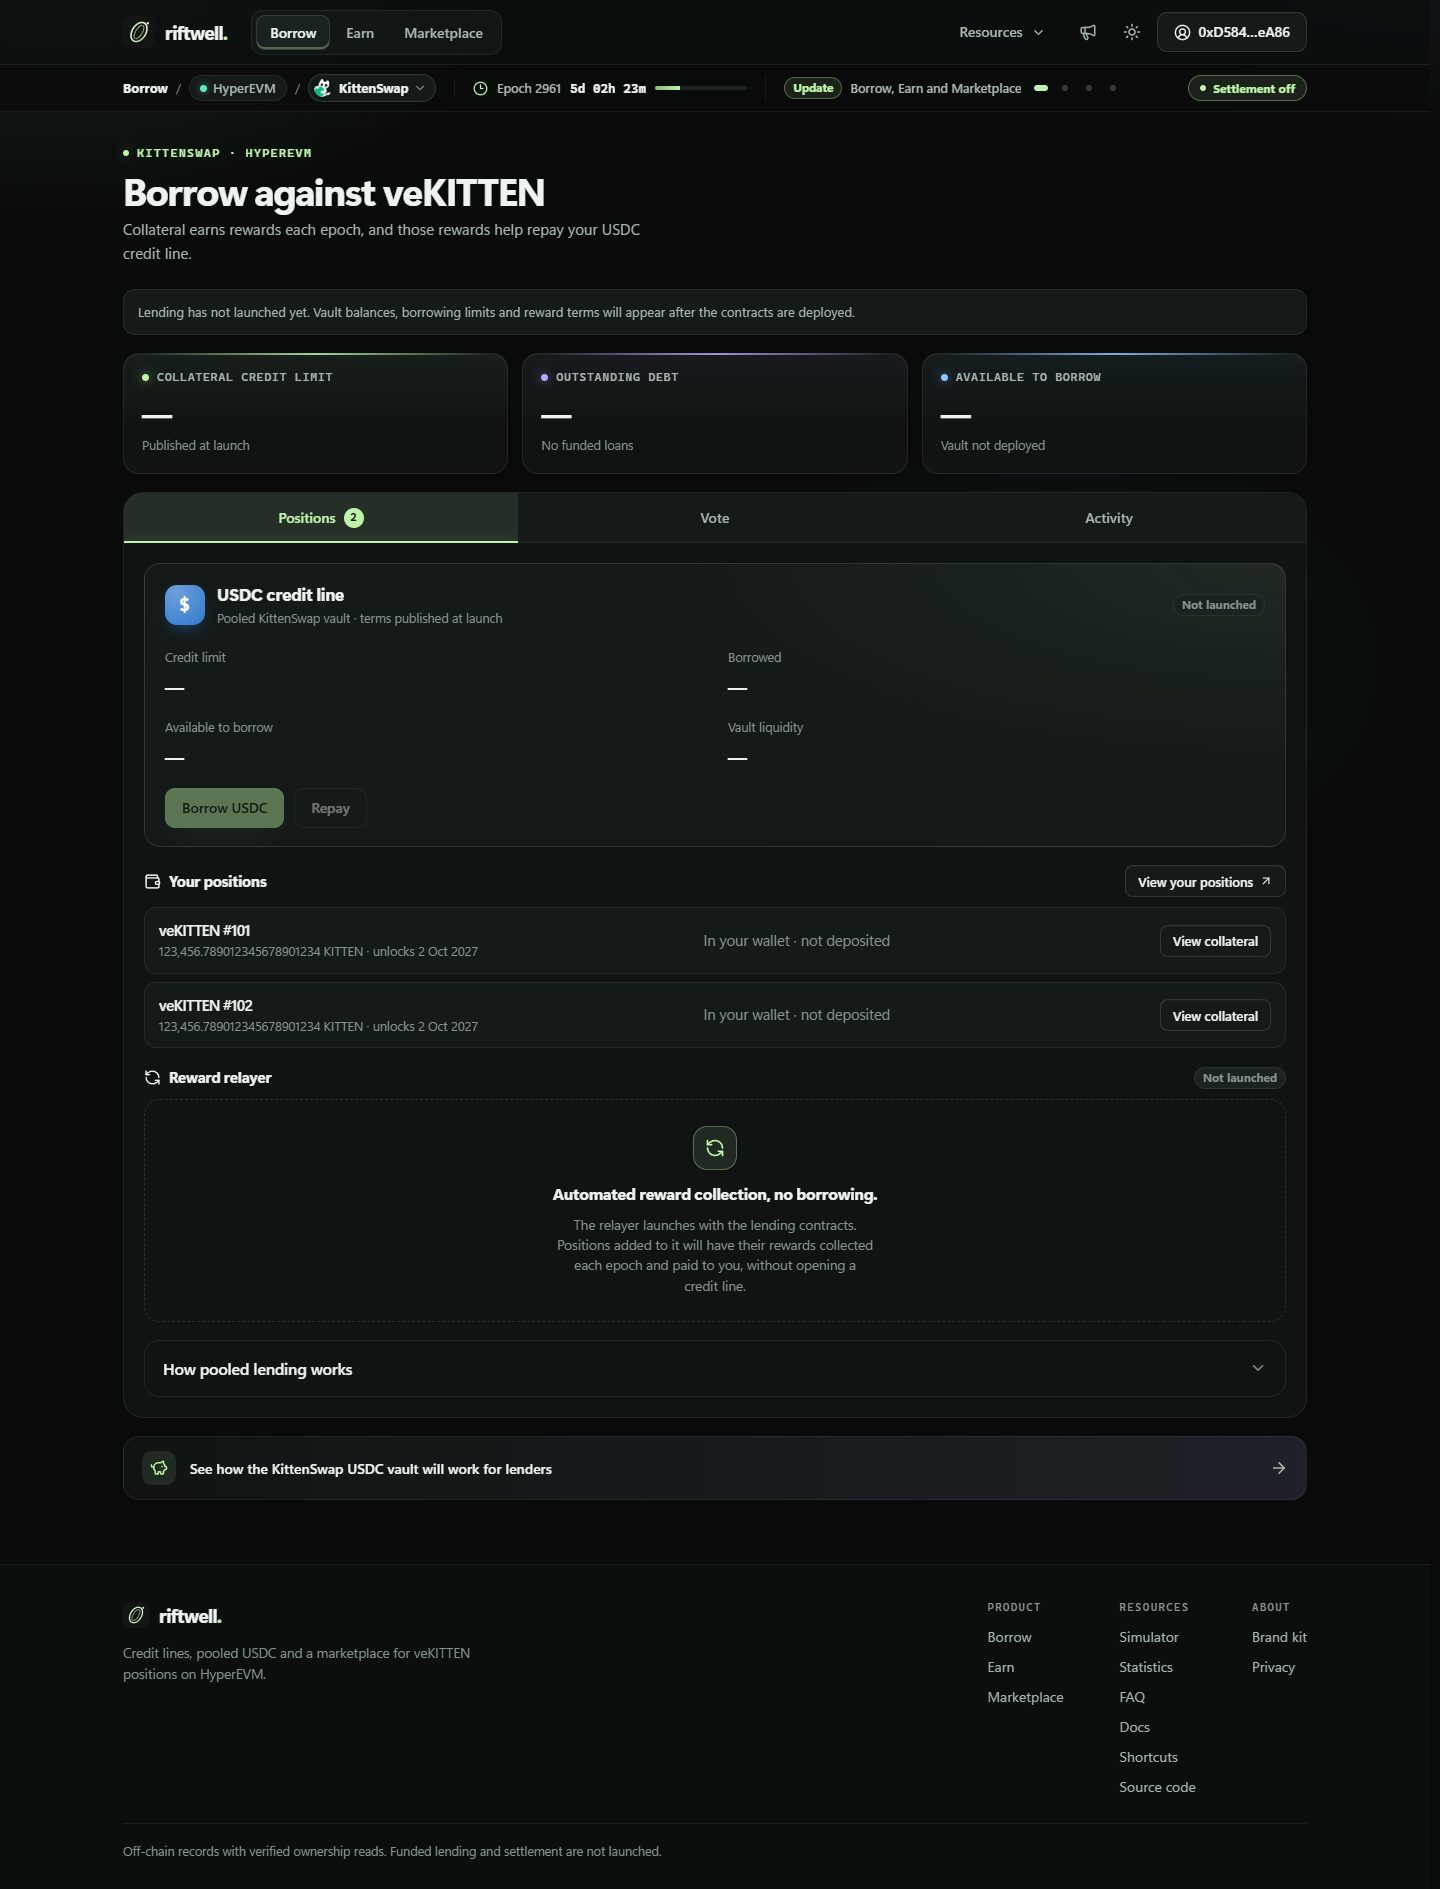
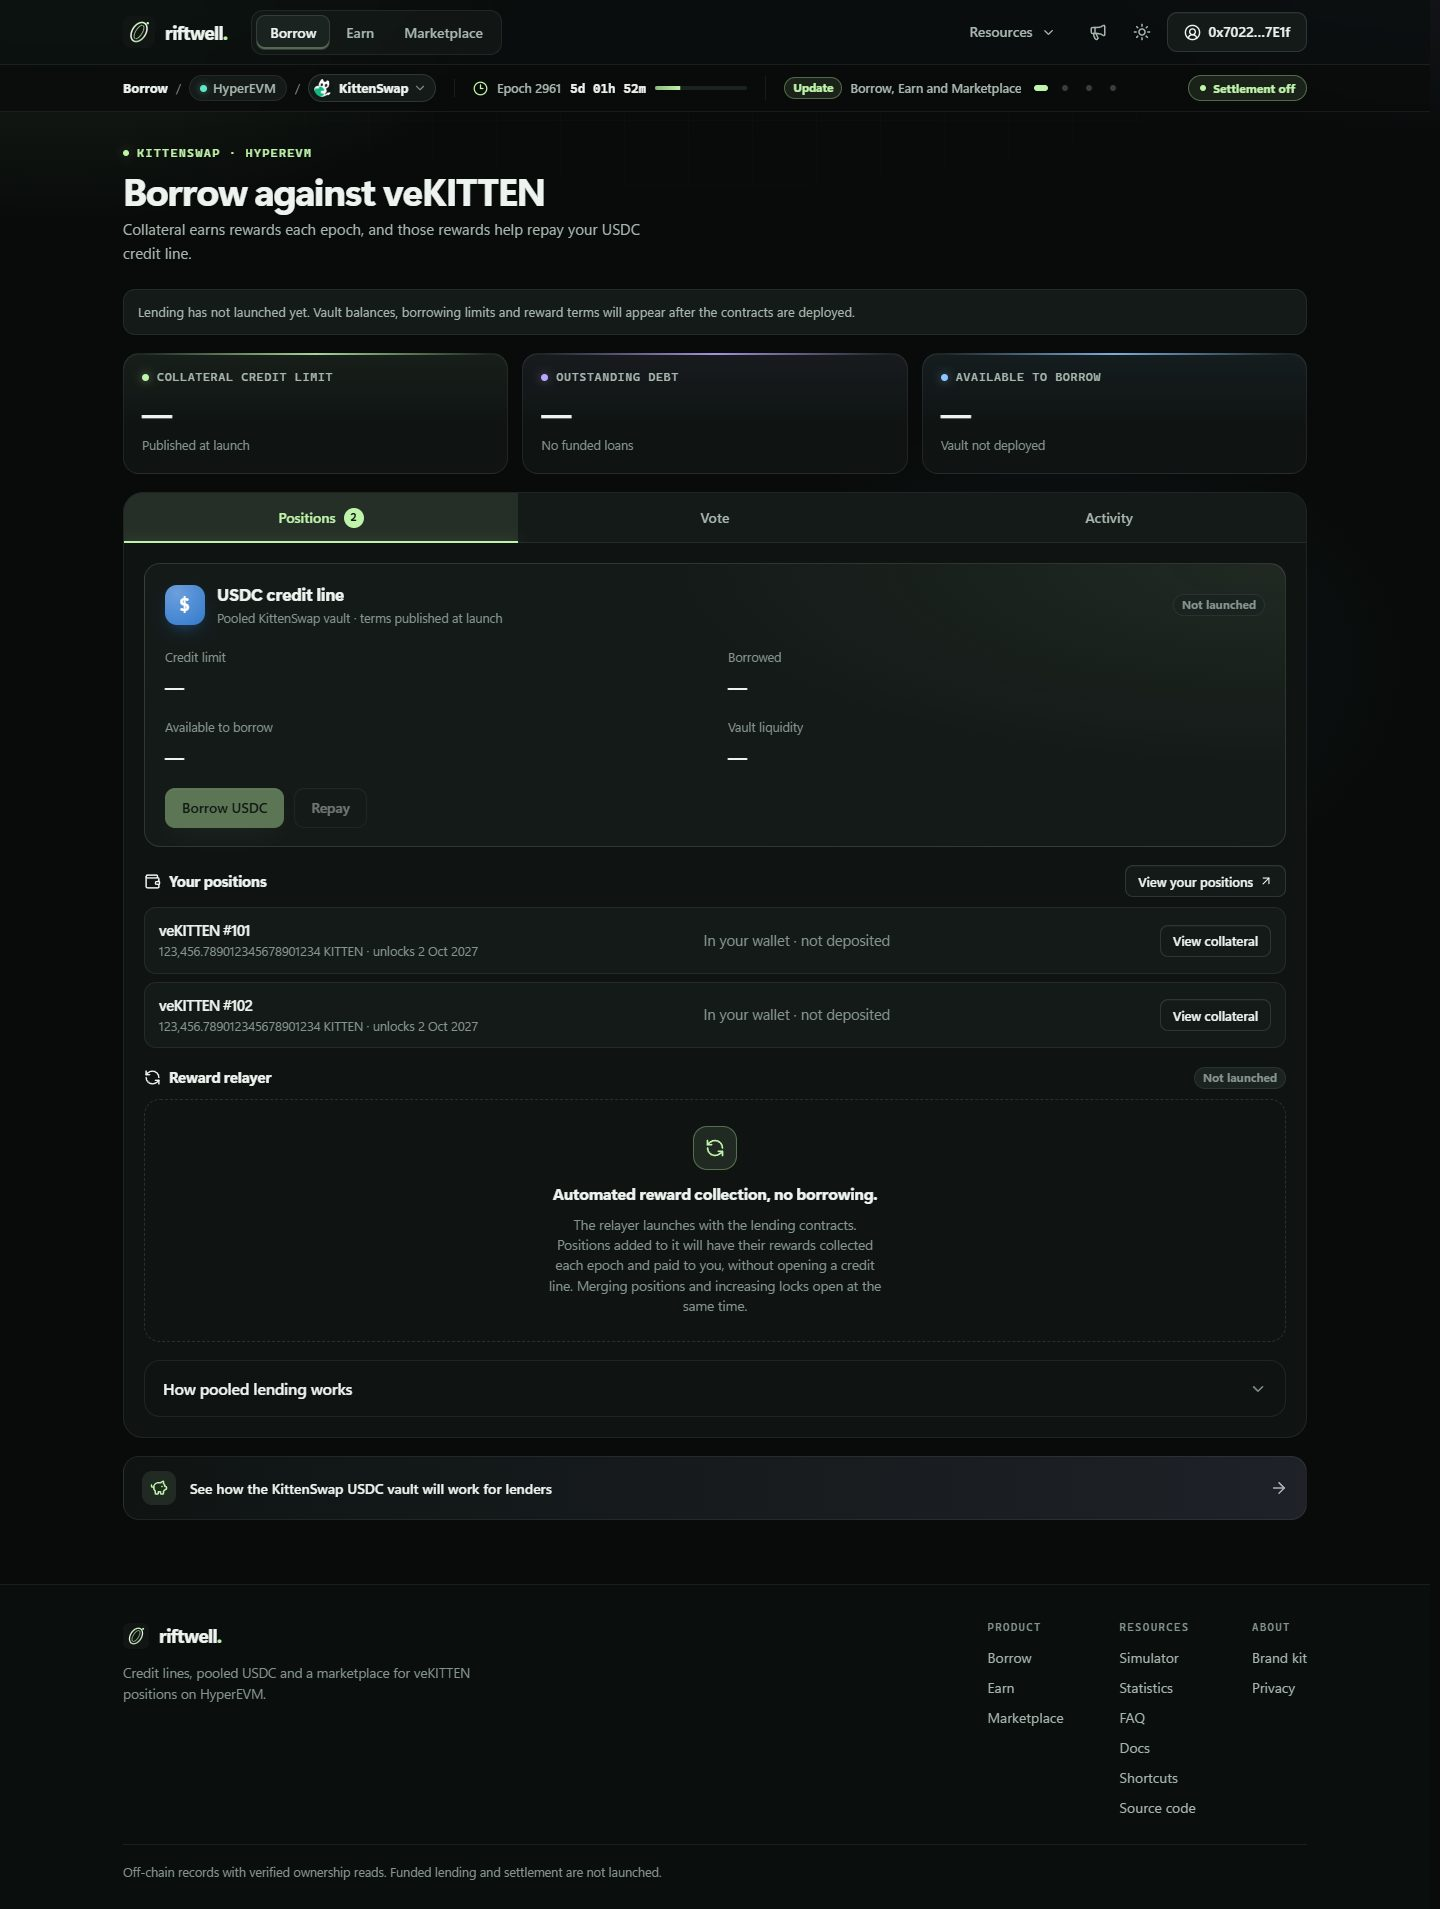
Update browser QA, docs and evidence for merges and relayer strategy
Preview suite: 391 checks and 51 accessibility audits, including merges,
lock increases, borrowing the added credit, persistence and a relayer
repayment share, run from a fresh preview and then restored. Connected
suite: 88 checks and 21 audits. Docs describe the new collateral actions.

diff --git a/docs/VALIDATION.md b/docs/VALIDATION.md
@@ -4,16 +4,16 @@ The frontend, Node service and contract prototypes have separate dependency tree
 
 ## Interface redesign — 2 October 2026
 
-The interface was rebuilt around Borrow, Earn and Marketplace, with a repayment simulator, statistics, FAQ, brand kit, privacy notes, release notes, a not-found page, light theme, keyboard shortcuts and shareable listing links. The preview adds a reward relayer (rewards without credit), private (OTC) listings, a sweep slider and a paginated history of labelled sample sales with market statistics. Preview accounting keeps the 0.5% fee basis and exact micro-unit arithmetic. Server code and the API did not change.
+The interface was rebuilt around Borrow, Earn and Marketplace, with a repayment simulator, statistics, FAQ, brand kit, privacy notes, release notes, a not-found page, light theme, keyboard shortcuts and shareable listing links. The preview adds merges and lock increases for deposited collateral, a reward relayer (rewards without credit) with a repayment share, private (OTC) listings, a sweep slider and a paginated history of labelled sample sales with market statistics. Preview accounting keeps the 0.5% fee basis and exact micro-unit arithmetic. Server code and the API did not change.
 
-- 144 frontend tests pass: 35 pooled-accounting tests (now including wallet purchases, buying straight into collateral and the reward relayer), 13 marketplace/domain tests, 65 connected client/wallet tests and 31 tests for the epoch clock, repayment simulator, vote planner, public and private seller listings, sample market history and statistics, routing and display formatting.
+- 157 frontend tests pass: 44 pooled-accounting tests (now including wallet purchases, buying straight into collateral, the reward relayer and its repayment share, merges and lock increases, with saved-state validation), 13 marketplace/domain tests, 65 connected client/wallet tests and 35 tests for sample positions after merges, the epoch clock, repayment simulator, vote planner, public and private seller listings, sample market history and statistics, routing and display formatting.
 - 48 server tests pass on Node 24. The Windows validation host could not compile the better-sqlite3 native addon, so the server and connected browser suites ran with a local, uncommitted stand-in that maps the better-sqlite3 calls the server uses onto Node’s built-in `node:sqlite`. CI runs the server tests against better-sqlite3 itself.
-- Strict TypeScript and both production builds pass. Initial JavaScript is approximately 103 kB compressed in preview mode and 92 kB in connected mode; CSS is approximately 14 kB. The simulator, statistics, FAQ, brand kit, privacy page and dialogs are separate chunks fetched while the browser is idle.
-- 344 browser checks pass against the production preview built with the GitHub Pages base path, in isolated headless Chrome. They cover routes, legacy/deep links and unknown routes, the sole KittenSwap market and its accent (including body-portalled dialogs in both themes), search, filters, sorting and selection, the sweep slider, copied listing links, wallet purchases, purchases into the credit line and the reward relayer, sweeps, public and private seller listings, cancellation and ended listings, paginated sales history, market and vault statistics, deposits, borrowing with its fee and input validation, zero and variable reward epochs, relayer rewards, repayment, surplus routing, collateral release, vault supply and cash-limited withdrawal, vote planning, the simulator, statistics, FAQ, brand downloads and copied colors, privacy notes, release notes, keyboard shortcuts, theme persistence, focus handling, persistence, reset, corrupt and unavailable storage, and reduced motion. Each ledger change is compared with exact expected balances and the fixed example-borrower and example-supplier baseline.
-- 47 views pass automated WCAG A/AA checks (axe-core) with no reported violations, including light-theme, mobile and dialog states. No horizontal overflow was found on any of the eight main routes at 320, 390, 768, 1440 or 1920 pixels.
+- Strict TypeScript and both production builds pass. Initial JavaScript is approximately 104 kB compressed in preview mode and 93 kB in connected mode; CSS is approximately 14 kB. The simulator, statistics, FAQ, brand kit, privacy page and dialogs are separate chunks fetched while the browser is idle.
+- 391 browser checks pass against the production preview built with the GitHub Pages base path, in isolated headless Chrome. They cover routes, legacy/deep links and unknown routes, the sole KittenSwap market and its accent (including body-portalled dialogs in both themes), search, filters, sorting and selection, the sweep slider, copied listing links, wallet purchases, purchases into the credit line and the reward relayer, sweeps, public and private seller listings, cancellation and ended listings, paginated sales history, market and vault statistics, deposits, merges and lock increases (from a fresh preview, including borrowing the added credit and a reload), borrowing with its fee and input validation, zero and variable reward epochs, relayer rewards and a relayer repayment share, repayment, surplus routing, collateral release, vault supply and cash-limited withdrawal, vote planning, the simulator, statistics, FAQ, brand downloads and copied colors, privacy notes, release notes, keyboard shortcuts, theme persistence, focus handling, persistence, reset, corrupt and unavailable storage, and reduced motion. Each ledger change is compared with exact expected balances and the fixed example-borrower and example-supplier baseline.
+- 51 views pass automated WCAG A/AA checks (axe-core) with no reported violations, including light-theme, mobile and dialog states. No horizontal overflow was found on any of the eight main routes at 320, 390, 768, 1440 or 1920 pixels.
 - 88 connected browser checks pass against the built connected frontend served by the real HTTP application with SQLite (through the stand-in above), simulated read-only chain data and ephemeral EOA providers. Borrow and Earn show undeployed lending as unknown values with disabled actions, the reward relayer is marked as not launched, statistics show unknown lending values, marketplace purchases stay unavailable, and sign-in, listings, restarts, cancellation during an RPC outage and legacy-record history behave as before. 21 views pass automated WCAG checks.
 - Neither suite observed console errors, runtime exceptions or requests to external services. The connected report separately lists the HTTP 401, 404 and 503 responses that its signed-out, missing-token and outage checks provoke on purpose.
-- Screenshots: [preview](qa/preview.png), [borrow](qa/borrow-desktop.jpg), [borrow mobile](qa/borrow-mobile.jpg), [earn](qa/earn-desktop.jpg), [marketplace](qa/market-desktop.jpg), [marketplace mobile](qa/market-mobile.jpg), [marketplace light](qa/market-light.jpg), [buying into the credit line](qa/buy-review.jpg), [simulator](qa/simulator-desktop.jpg), [statistics](qa/stats-desktop.jpg), [connected marketplace](qa/connected-market.jpg), [connected borrow](qa/connected-borrow.jpg), [connected mobile](qa/connected-mobile.jpg). They show sample data and service fixtures, not live lending or market evidence.
+- Screenshots: [preview](qa/preview.png), [borrow](qa/borrow-desktop.jpg), [borrow mobile](qa/borrow-mobile.jpg), [earn](qa/earn-desktop.jpg), [marketplace](qa/market-desktop.jpg), [marketplace mobile](qa/market-mobile.jpg), [marketplace light](qa/market-light.jpg), [buying into the credit line](qa/buy-review.jpg), [merging into collateral](qa/merge-review.jpg), [simulator](qa/simulator-desktop.jpg), [statistics](qa/stats-desktop.jpg), [connected marketplace](qa/connected-market.jpg), [connected borrow](qa/connected-borrow.jpg), [connected mobile](qa/connected-mobile.jpg). They show sample data and service fixtures, not live lending or market evidence.
 
 Reports are in [qa/browser-report.json](qa/browser-report.json) and [qa/connected-browser-report.json](qa/connected-browser-report.json). To repeat the preview suite, build with `npm run build -- --base=/Riftwell/`, serve it with `npx vite preview --base=/Riftwell/` and run `npm run test:ui` with `RIFTWELL_PREVIEW_URL` set to the served `/Riftwell/` URL. Automated checks used Chrome only; Safari, Firefox, real wallet extensions, screen readers and the public Pages deployment were not exercised.
 

diff --git a/docs/DESIGN.md b/docs/DESIGN.md
@@ -4,7 +4,7 @@ Credit lines, a pooled USDC vault and a marketplace for vote-escrowed NFT positi
 
 Information architecture: primary navigation contains exactly Borrow, Earn and Marketplace. Resources—the repayment simulator, statistics, FAQ, keyboard shortcuts, the about/service-status dialog, docs and source—live in a header menu and the footer, not in more navigation sections; the footer also links the brand kit and privacy notes. A "What’s new" panel in the header (and the menu sheet on phones) lists Riftwell’s own releases. A context bar under the header shows the page, chain, market selector, the market’s epoch countdown, the latest release note and the preview or connected status. Routes are hash-based (`#borrow`, `#earn`, `#marketplace`, `#marketplace/<position>`, `#simulator`, `#stats`, `#faq`, `#brand`, `#privacy`); the former `#lending` route opens Borrow, and any other hash shows a not-found page.
 
-Borrow: vault stat cards with disclosure details, then a tabbed workspace for positions, vote planning and activity. Show collateral credit, borrowed debt, remaining borrowing capacity and wallet balance separately; payoff estimates are labelled examples, not schedules. Deposited collateral, reward-relayer positions and wallet positions are separate lists. The reward relayer collects a position’s rewards each epoch without borrowing; relayer positions never back credit. Vote planning uses example pools and never casts a vote.
+Borrow: vault stat cards with disclosure details, then a tabbed workspace for positions, vote planning and activity. Show collateral credit, borrowed debt, remaining borrowing capacity and wallet balance separately; payoff estimates are labelled examples, not schedules. Deposited collateral, reward-relayer positions and wallet positions are separate lists. The reward relayer collects a position’s rewards each epoch without borrowing; relayer positions never back credit, but a chosen share of their rewards can repay debt. Deposited positions can grow in place: merge a wallet position into one, or add tokens to its lock. Both raise credit without new debt, and each review shows the resulting lock, unlock date and credit first. Vote planning uses example pools and never casts a vote.
 
 Earn: one vault card per market showing vault assets, active loans, utilization and the user’s position. Show share value separately from immediately withdrawable cash. Yield reads “Variable” until the user simulates epochs, and is then labelled simulated. Do not show lender offers or fixed loan rates/durations.
 

diff --git a/docs/LENDING.md b/docs/LENDING.md
@@ -11,7 +11,9 @@ Riftwell’s intended lending product uses a shared USDC vault and collateral-ba
 5. Process collateral revenue under the selected strategy. Reward proceeds can reduce debt and pay configured lender/protocol revenue shares. Manual partial or full repayment is separate from automatic repayment.
 6. Remove collateral only when the remaining portfolio satisfies the configured credit requirements. Individual collateral release rules must come from the actual protocol.
 
-A position can instead be added to a reward relayer: its rewards are collected each epoch and paid to the owner, with no credit line. A relayer position cannot back a loan or be listed until it is withdrawn. Any automation charge is configured at launch, and simulated relayer amounts are net of it.
+A position can instead be added to a reward relayer: its rewards are collected each epoch and paid to the owner, with no credit line. The owner can route a share of those rewards to repay credit-line debt after collateral rewards have been applied; the rest is paid out. A relayer position cannot back a loan or be listed until it is withdrawn. Any automation charge is configured at launch, and simulated relayer amounts are net of it.
+
+Deposited collateral can grow without new debt. Merging folds a wallet position into a deposited one: the locked balances add up, the later unlock date applies and the wallet position no longer exists on its own. Increasing a lock adds tokens from the wallet without changing the unlock date. Both raise the position’s example reward and credit; debt is unchanged, and a merge cannot be undone.
 
 The seven-day epoch is a reward cycle, not a loan duration. Reward amounts vary. Lower rewards slow repayment; no rewards means no automatic repayment. Any payoff estimate must name its reward and deduction assumptions and must not be presented as a maturity date.
 

diff --git a/README.md b/README.md
@@ -10,7 +10,7 @@ Collateral credit lines, a pooled USDC vault and a focused marketplace for veKIT
 
 Two build modes share the interface:
 
-- **Preview:** GitHub Pages uses labelled sample positions and a local simulation saved in your browser. Deposit demo veKITTEN, borrow against it or add it to the reward relayer, simulate reward epochs, plan votes, supply and withdraw vault USDC, buy listings into your wallet, your credit line or the relayer, sweep several at once, list your own publicly or privately, browse sample market history and statistics, and model repayment in the simulator.
+- **Preview:** GitHub Pages uses labelled sample positions and a local simulation saved in your browser. Deposit demo veKITTEN and borrow against it, grow deposited locks by merging positions or adding demo KITTEN, add positions to the reward relayer, simulate reward epochs, plan votes, supply and withdraw vault USDC, buy listings into your wallet, your credit line or the relayer, sweep several at once, list your own publicly or privately, browse sample market history and statistics, and model repayment in the simulator.
 - **Connected:** the Node service supports wallet sign-in, confirmed veKITTEN ownership reads and persistent marketplace listings. Borrow and Earn report their undeployed status without inventing liquidity, credit or yield.
 
 Marketplace listings are off-chain expressions of interest. Funded purchases and lending are unavailable until compatible contracts are separately released. No application route requests token approvals, transfers NFTs or sends transactions. Earlier unfunded lending requests/offers are retained only for history and cancellation.
